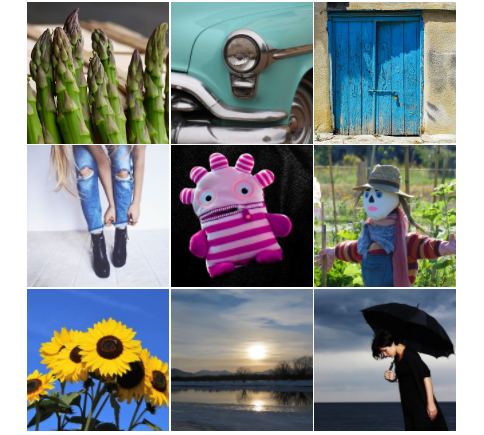
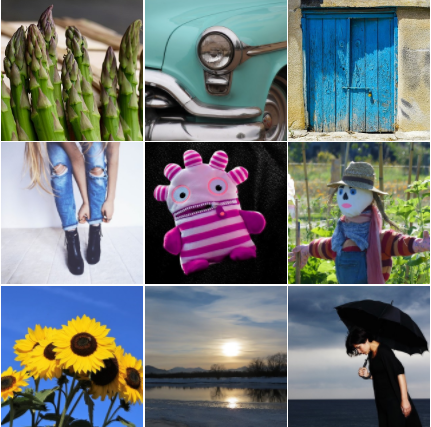
size fix
adjusted the desktop project size, making it smaller

diff --git a/assets/style.css b/assets/style.css
@@ -280,8 +280,8 @@ nav a:hover .arrow {
 	justify-content: center;
 	align-items: center;
 	/*overflow: hidden;*/
-	margin-left: 5vw;
-	height: 60vh;
+	margin-left: 3vw;
+	height: 40vh;
 }
 
 .project-image {
@@ -289,7 +289,7 @@ nav a:hover .arrow {
 	/*flex-shrink: 0;
 	min-width: 100%;
 	min-height: 100%;*/
-	height: 60vh;
+	height: 40vh;
 	-webkit-transition: filter .5s;
 	transition: filter .3s ease-in;
 }
@@ -585,6 +585,7 @@ bq 720 x 1280*/
 		position: static;
 		/*border: 1px solid rgba(60, 161, 105, .2);*/
 		padding-top: 1px;
+		height: 60vh;
 		
 		display: -webkit-box;
 		display: -moz-box;
